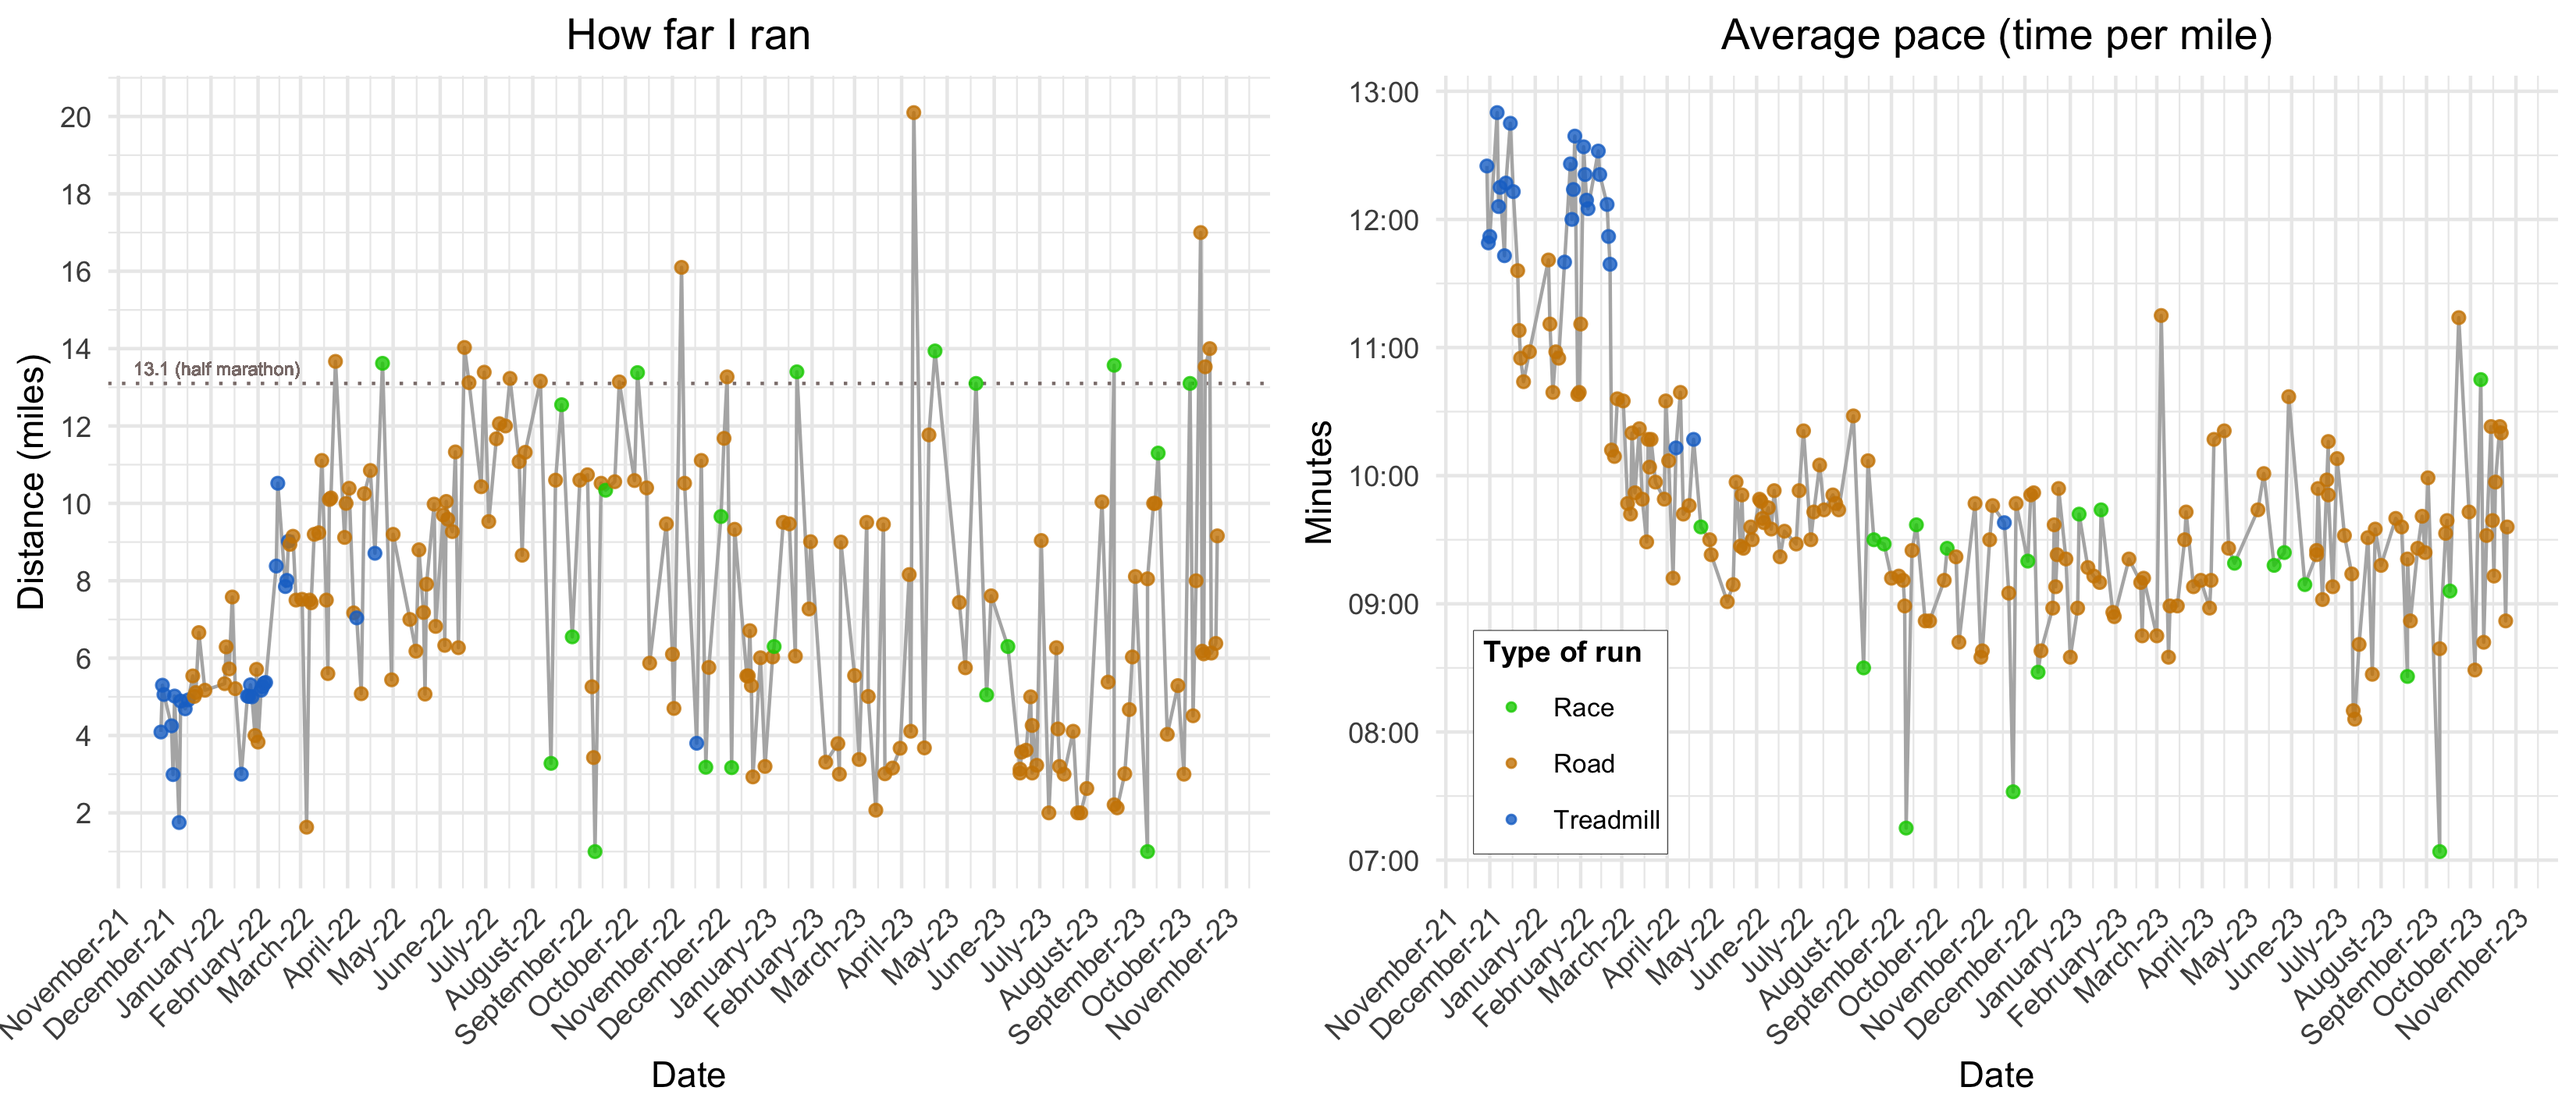
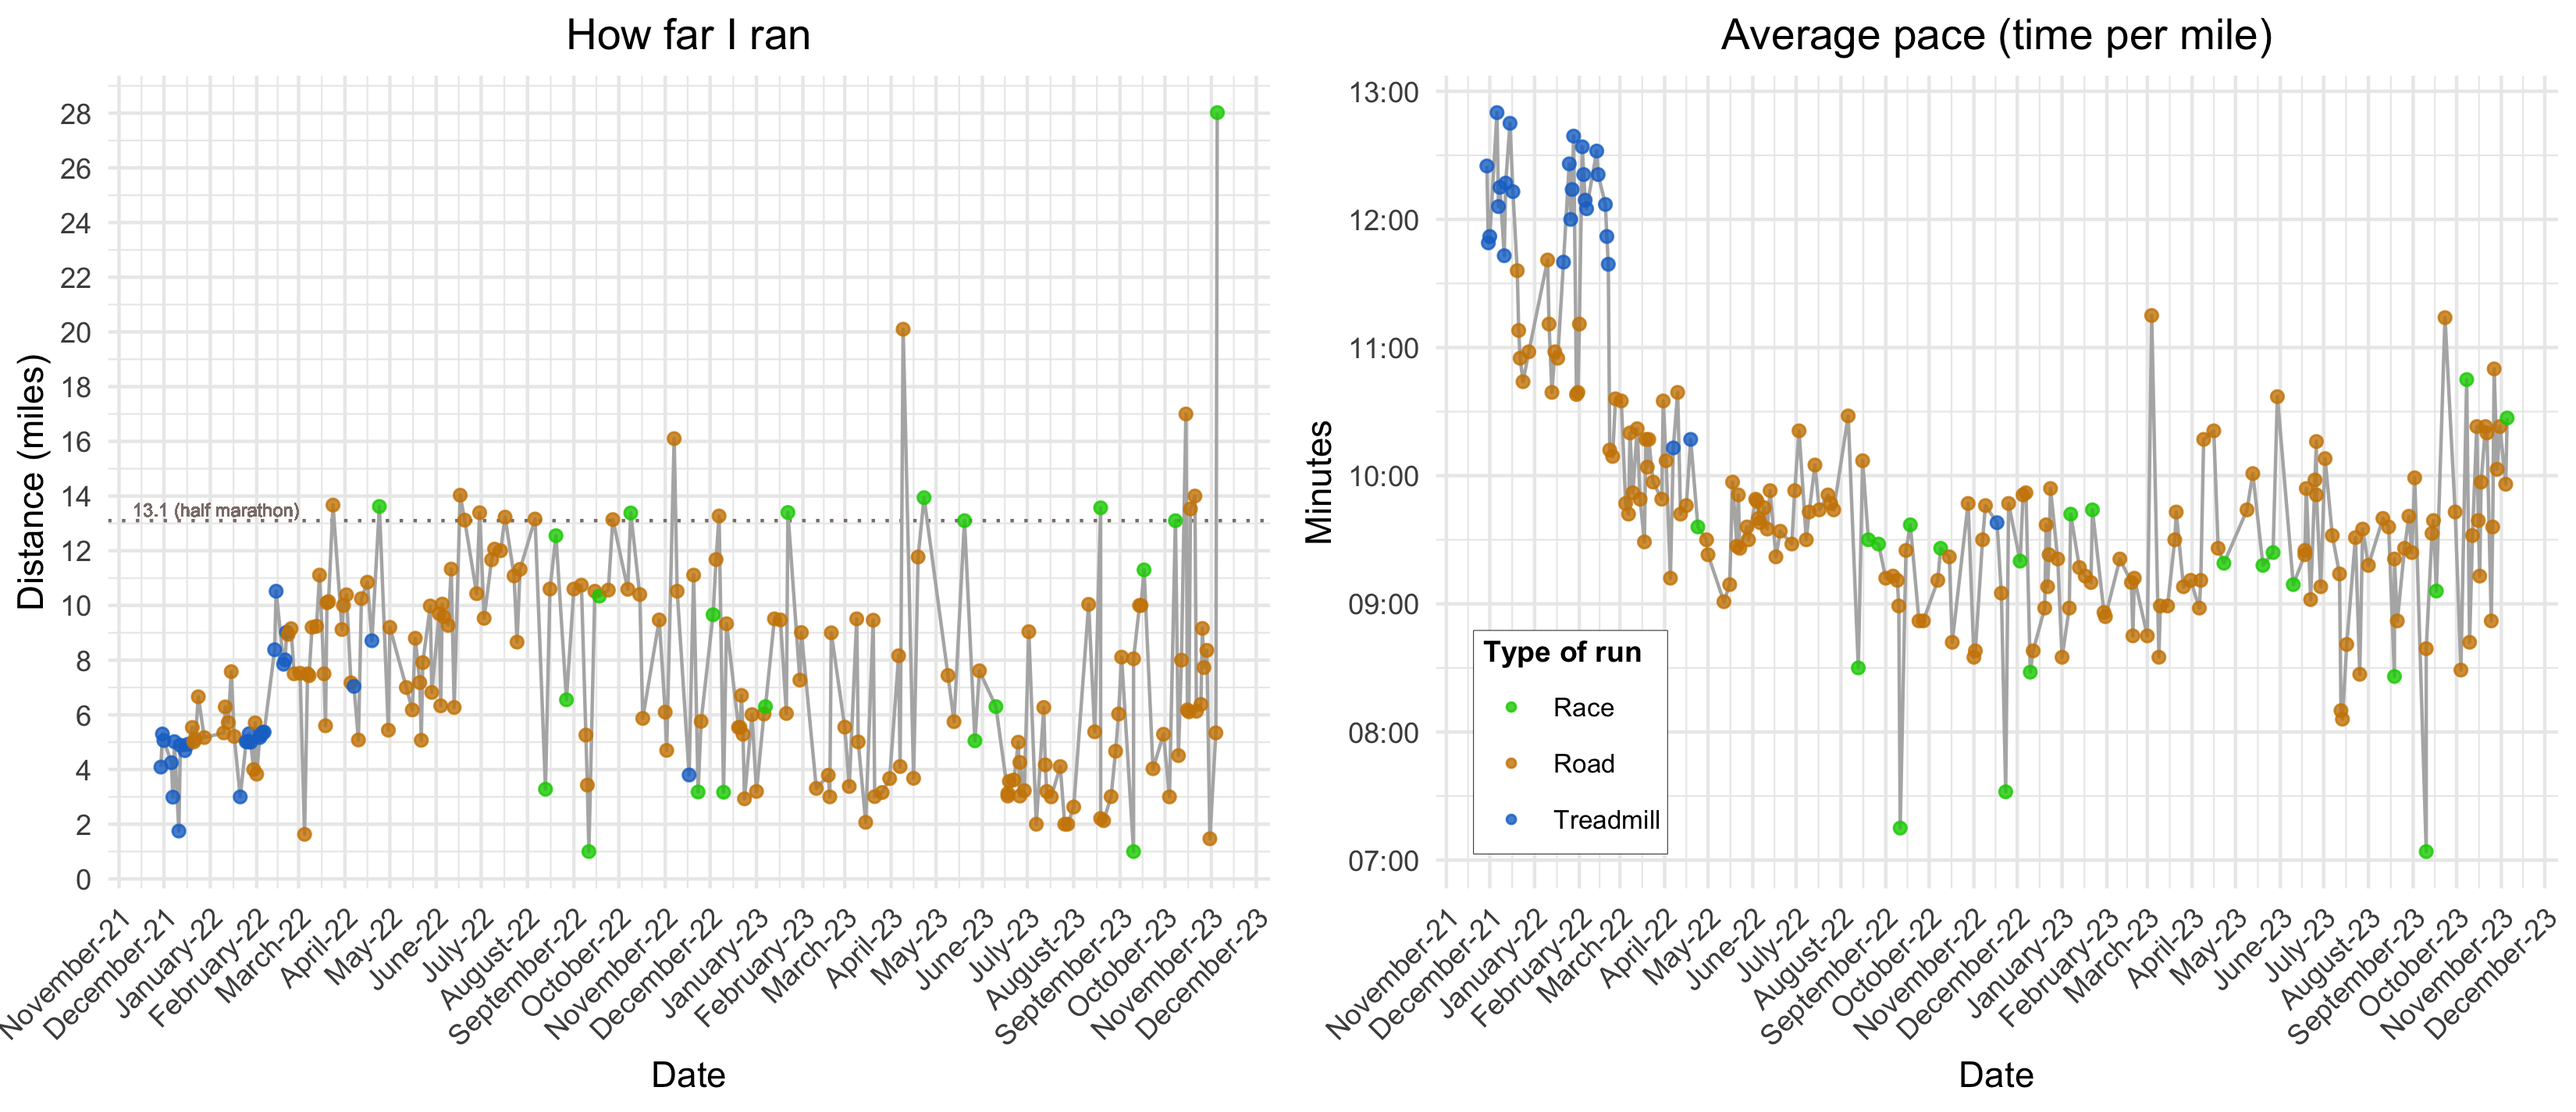
10/27/23 - 11/5/23 - NYC marathon

Changed region(s): [[0.0312, 0.0618, 0.4994, 0.9263], [0.5618, 0.0618, 0.9988, 0.9263]]

diff --git a/README.md b/README.md
@@ -13,7 +13,7 @@ runningData$Average_Pace <- as.POSIXct(runningData$Average_Pace, format="%M:%S")
 # Plots 
 library(ggplot2); library(ggpubr); library(scales)
 plotSettings <- list(theme_minimal(), geom_line(color="gray70"), geom_point(aes(color=Treadmill_Road)), scale_color_manual(values=c(alpha("green3", 0.8), alpha("orange3", 0.8), alpha("dodgerblue3", 0.8))), theme(plot.title=element_text(hjust=0.5)), theme(legend.position="none"), scale_x_date(date_breaks="1 month", date_labels="%B-%y"), theme(axis.text.x=element_text(angle=45, vjust=1, hjust=1)))
-p1 <- ggplot(runningData, aes(x=Date, y=Miles)) + geom_hline(yintercept=13.1, linetype="dotted", color = "mistyrose4") + geom_text(label="13.1 (half marathon)", x=as.Date("2022-01-05"), y=13.5, color="mistyrose4", size=2) + labs(y="Distance (miles)", title="How far I ran") + plotSettings + scale_y_continuous(breaks=seq(0,22,2))
+p1 <- ggplot(runningData, aes(x=Date, y=Miles)) + geom_hline(yintercept=13.1, linetype="dotted", color = "mistyrose4") + geom_text(label="13.1 (half marathon)", x=as.Date("2022-01-05"), y=13.5, color="mistyrose4", size=2) + labs(y="Distance (miles)", title="How far I ran") + plotSettings + scale_y_continuous(breaks=seq(0,30,2))
 p2 <- ggplot(runningData, aes(x=Date, y=Average_Pace)) + labs(y="Minutes", title="Average pace (time per mile)") + scale_y_datetime(breaks=date_breaks("1 mins"), date_labels="%M:%S") + labs(color="Type of run") + plotSettings +  theme(legend.position=c(0.12, 0.18), legend.background=element_rect(size=0.1, linetype="solid", color="black"), legend.margin=margin(2,3,2,3), legend.title=element_text(size=9, face="bold"), legend.text=element_text(size=8)) + guides(color=guide_legend(override.aes=list(size=1)))
 ggarrange(p1, p2, nrow=1)
 ```
@@ -26,7 +26,7 @@ Total miles since 11/29/21:
 sum(runningData$Miles)
 ```
 
-    ## [1] 1529.72
+    ## [1] 1580.64
 
 Average distance over last ten runs:
 
@@ -34,4 +34,4 @@ Average distance over last ten runs:
 mean(tail(runningData$Miles, 10))
 ```
 
-    ## [1] 9.1
+    ## [1] 10.012
